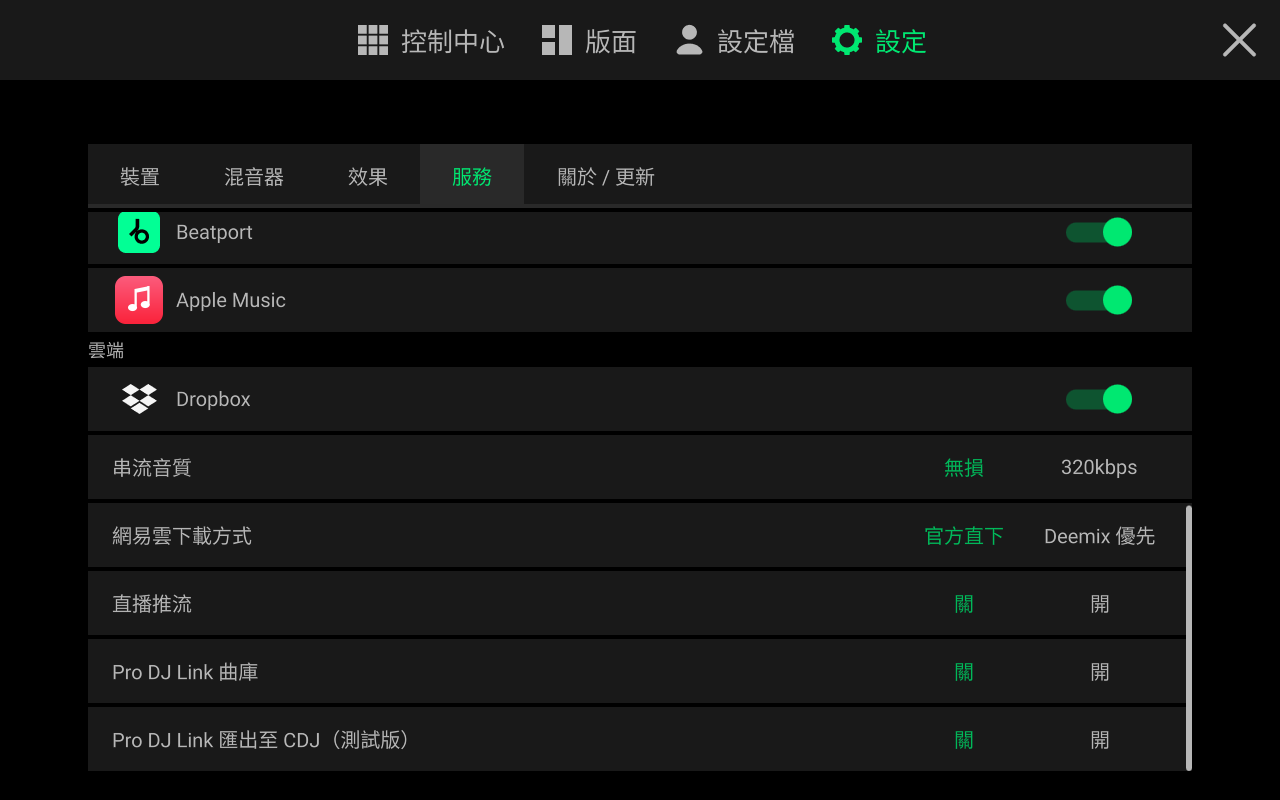
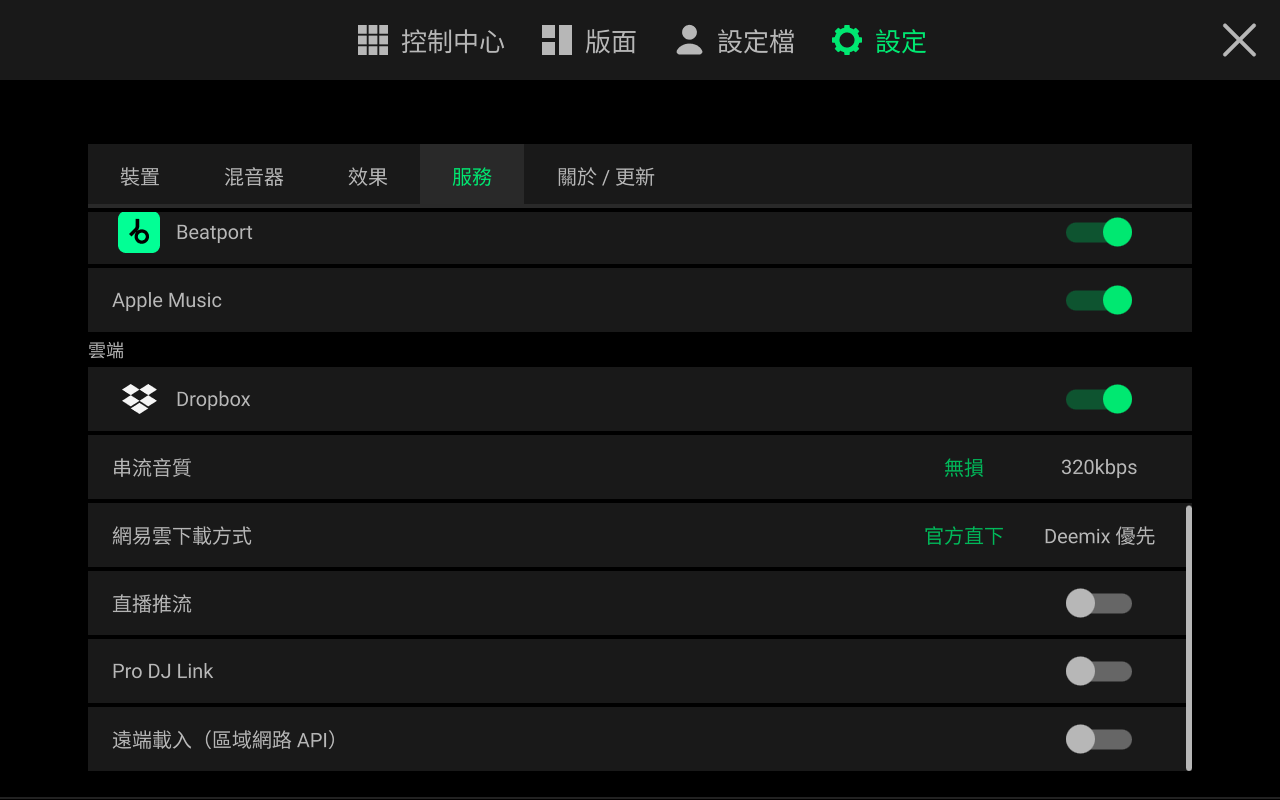
docs(screenshots): re-render 5.3.0.5 documentation screenshots in three languages
- Re-render About, Update, Web Console, and Settings screenshots in en, zh-CN, and zh-TW for v5.3.0.5
- Update doc-shots.sh to support suite console rendering and multi-mode screenshot captures
- Add settings-pages-shot.qml for automated Settings sub-tabs capture
- Generate shot-about-version.png and shot-about-ota.png for documentation site

diff --git a/tools/az01-packer/settings-pages-shot.qml b/tools/az01-packer/settings-pages-shot.qml
@@ -1,0 +1,64 @@
+// Documentation only: open a Settings sub-tab and bring one row into view.
+// doc-shots.sh fills @TABS@ (display names, any language) and @ROWS@ (row texts to show).
+import QtQuick 2.12
+import QtQuick.Window 2.2
+import Planck 1.0
+Item {
+    id: probe
+    visible: false
+    property int tick: 0
+    property int switched: 0
+    property int scrolled: 0
+    function walk(o, f) {
+        if (!o) return
+        f(o)
+        if (o.children) for (let i = 0; i < o.children.length; i++) walk(o.children[i], f)
+    }
+    Timer {
+        interval: 1000; repeat: true; running: true
+        onTriggered: {
+            probe.tick++
+            const win = probe.Window.window ? probe.Window.window.contentItem : null
+            if (!win) return
+            if (PlanckGUI.views.outOfBoxUpdateScreenShowing) PlanckGUI.views.outOfBoxUpdateScreenShowing = false
+            if (PlanckGUI.views.onBoardingController) PlanckGUI.views.onBoardingController.close()
+            PlanckGUI.views.prompts.drop("StemsDownload")
+            Planck.getProperty("/GUI/CloseDialogs").translator.state = true
+            probe.walk(win, function(o) {
+                if (o.objectName === "DismissButton" && typeof o.clicked === "function") o.clicked()
+                if (o.objectName === "NextButton" && typeof o.clicked === "function") o.clicked()
+            })
+            try { PlanckGUI.views.controlCenter.openTab(ControlCenterTabNameSettings) } catch (e) {}
+            if (!probe.switched) {
+                probe.walk(win, function(o) {
+                    if (probe.switched || o.objectName !== "ControlCenter_SubTabBar" || !o.visible) return
+                    const tv = o.parent
+                    if (!tv || !tv.tabs) return
+                    const names = @TABS@
+                    for (let i = 0; i < tv.tabs.count; i++) {
+                        const d = tv.tabs.get(i) ? tv.tabs.get(i).display : ""
+                        if (names.indexOf(d) >= 0) { o.currentIndex = i; probe.switched = probe.tick; return }
+                    }
+                })
+            }
+            if (probe.switched && probe.tick === probe.switched + 3) {
+                let flick = null
+                probe.walk(win, function(o) {
+                    if (typeof o.contentY === "number" && typeof o.contentHeight === "number" && o.visible
+                            && o.height > 300 && o.contentHeight > o.height + 10 && (!flick || o.height > flick.height)) flick = o
+                })
+                const rows = @ROWS@
+                let row = null
+                probe.walk(win, function(o) { if (o.visible && rows.indexOf(o.text) >= 0) row = o })
+                if (flick && row) {
+                    const y = row.mapToItem(flick.contentItem, 0, 0).y
+                    if (y + row.height > flick.contentY + flick.height - 10 || y < flick.contentY)
+                        flick.contentY = Math.max(flick.originY, Math.min(y - flick.height / 2, flick.originY + flick.contentHeight - flick.height))
+                }
+                probe.scrolled = probe.tick
+            }
+            if (probe.scrolled && probe.tick === probe.scrolled + 2)
+                win.grabToImage(function(result) { result.saveToFile("/tmp/shot.png"); Qt.quit() })
+        }
+    }
+}
